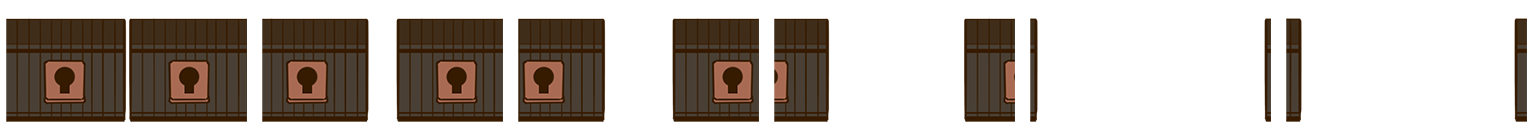
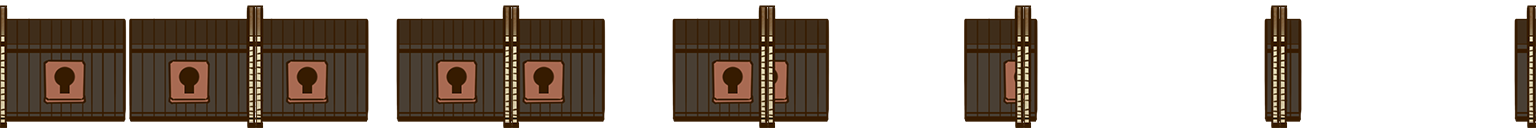
update gate sprites

diff --git a/gadgets.js b/gadgets.js
@@ -268,7 +268,7 @@ function makeGate(tilePos,horizontal=true) {
 	let dimensions= horizontal?[4,2]:[2,4];
 
 
-  function draw(ctx, lctx) { 
+  function draw(ctx, lctx) {
 	/*
 		{
 			let [x, y] = vadd(getPos(),[-tileSize/2,-tileSize/2]);
@@ -278,15 +278,14 @@ function makeGate(tilePos,horizontal=true) {
 		*/
 		if (horizontal) {
 			let [x, y] = vadd(getPos(),[tileSize/2,tileSize/2]);
-			ctx.drawSprite(Assets.gateFrameLeft,x,y);
-			ctx.drawSprite(Assets.gateFrameRight,x+128,y);
+			//ctx.drawSprite(Assets.gateFrameLeft,x,y);
+			//ctx.drawSprite(Assets.gateFrameRight,x+128,y);
 			ctx.drawSprite(Assets.gateHorizontal,x+64,y,frame);
 		} else {
 			let [x, y] = vadd(getPos(),[tileSize/2,tileSize/2]);
-			ctx.drawSprite(Assets.gateFrameTop,x,y);
-			ctx.drawSprite(Assets.gateFrameBottom,x,y+128);
+			//ctx.drawSprite(Assets.gateFrameTop,x,y);
+			//ctx.drawSprite(Assets.gateFrameBottom,x,y+128);
 			ctx.drawSprite(Assets.gateVertical,x,y+64,frame);
-
 		}
     //ctx.drawSprite(Assets.match, x, y);
   }
@@ -299,7 +298,7 @@ function makeGate(tilePos,horizontal=true) {
 	}
 
   function move() {
-    
+
     let p = getPos();
 		let topLeft = vadd(getPos(),[-tileSize,-tileSize]);
 		let size = [tileSize*(dimensions[0]+1),tileSize*(dimensions[1]+1)];
